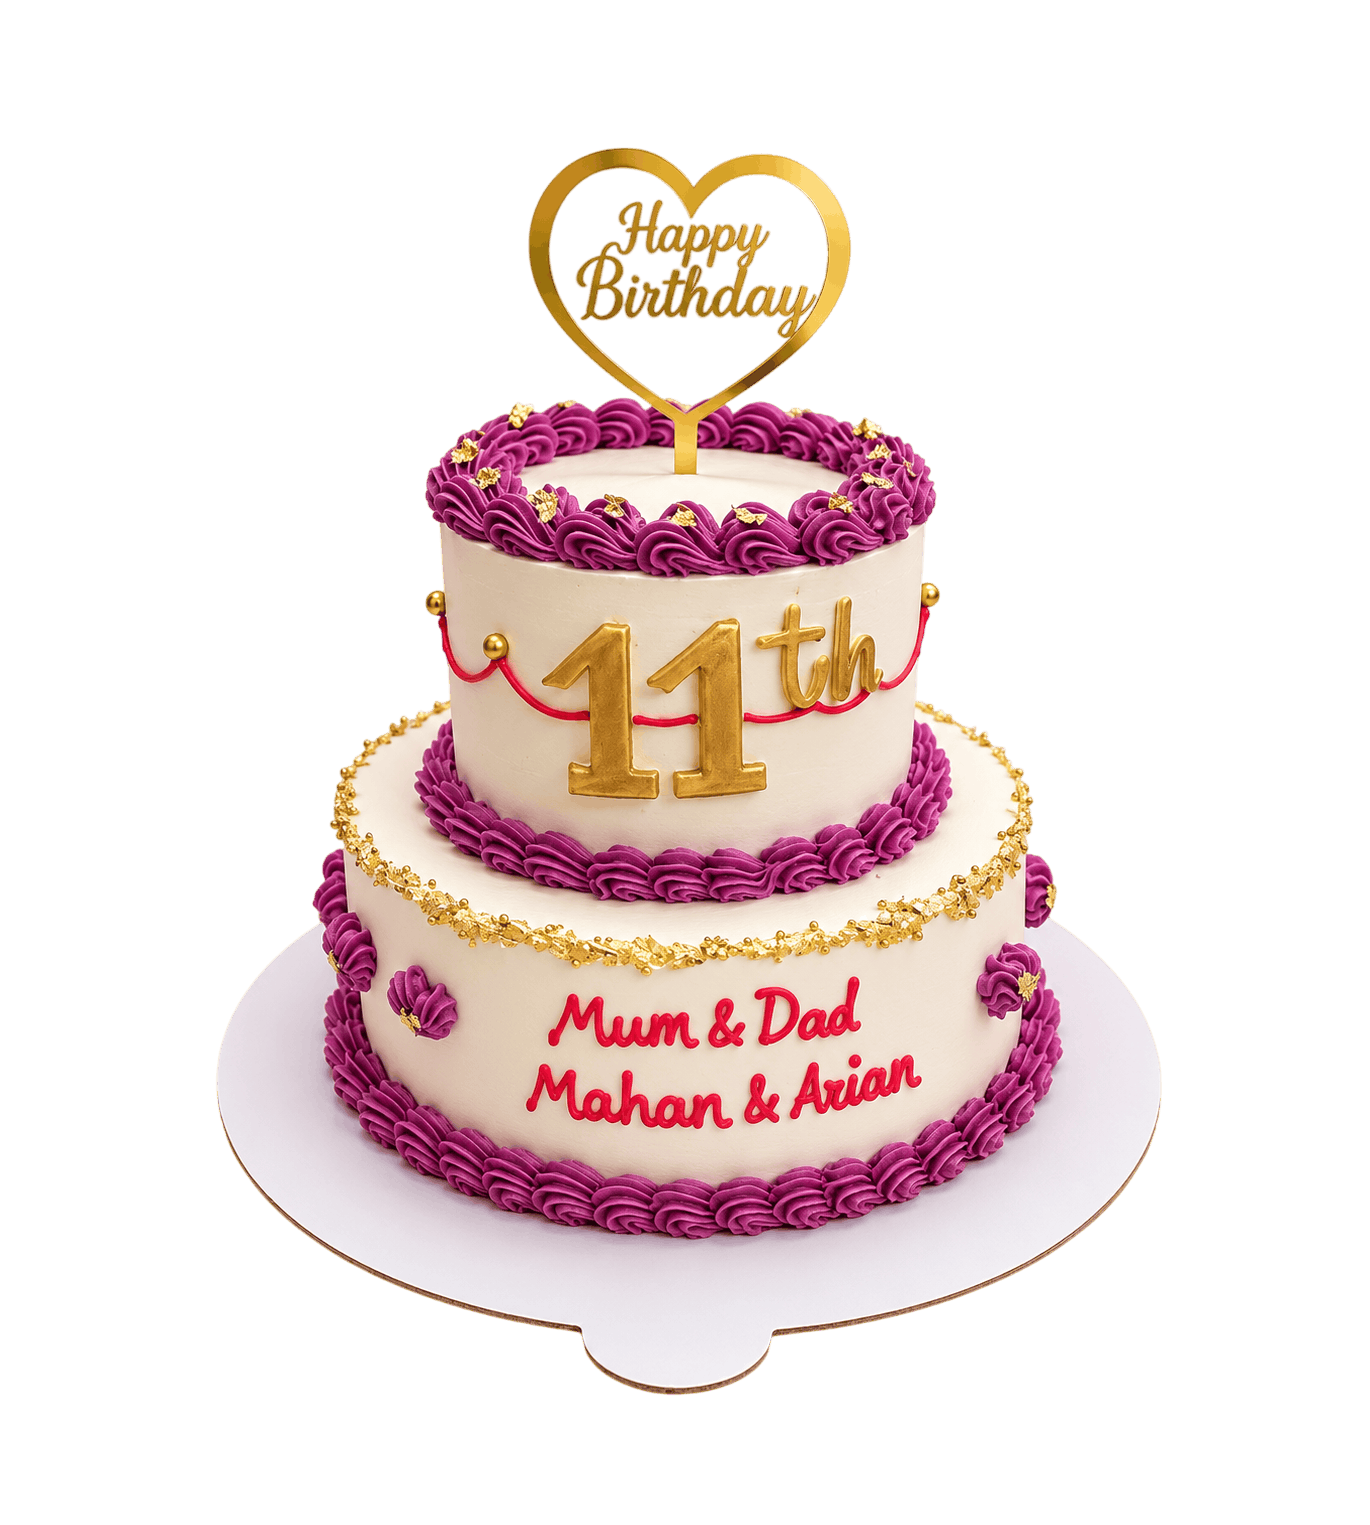
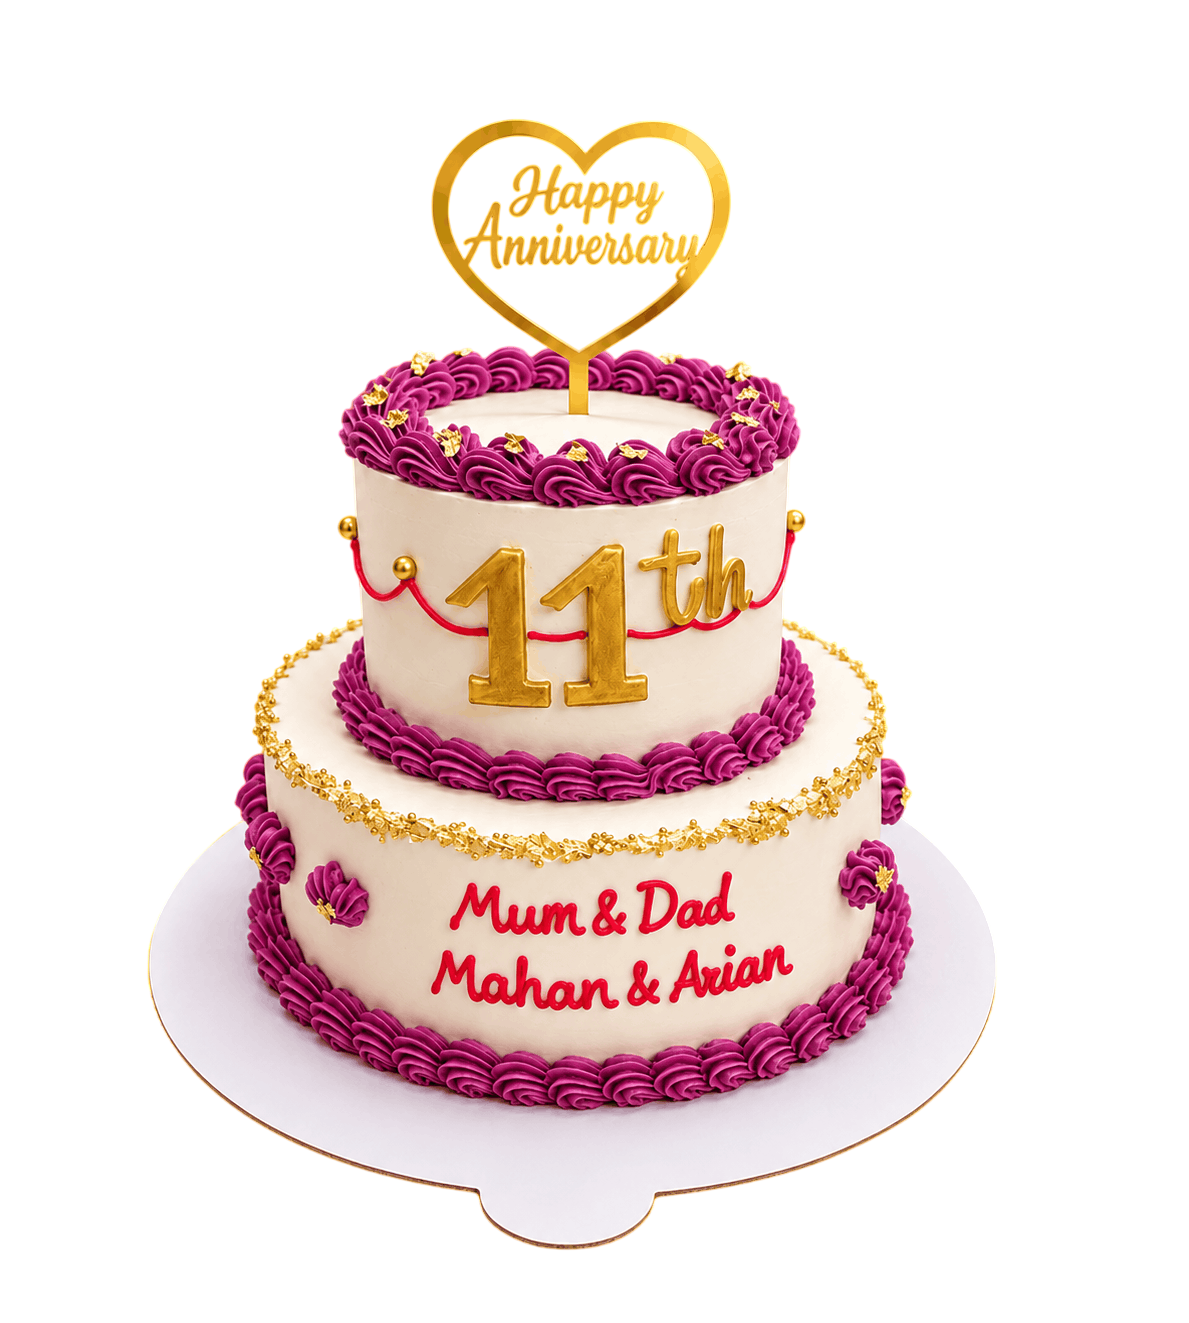
image fix

Changed region(s): [[0.1245, 0.093, 0.8402, 0.9607], [0.8091, 0.6508, 0.8402, 0.6818]]

diff --git a/src/components/HowToOrder.tsx b/src/components/HowToOrder.tsx
@@ -103,7 +103,10 @@ export default function HowToOrder() {
                   Delivered fresh to your doorstep
                 </p>
                 <p className="mt-1 text-xs font-bold text-brand sm:text-sm">
-                  ৳100 Delivery charge
+                  ৳100 Delivery charge{' '}
+                  <span className="text-[11px] font-normal text-ink/70 sm:text-xs">
+                    (varies by location)
+                  </span>
                 </p>
               </div>
             </div>

diff --git a/src/components/OccasionPicker.tsx b/src/components/OccasionPicker.tsx
@@ -67,7 +67,7 @@ const occasions: Occasion[] = [
   {
     name: "Date Night",
     text: "A little something sweet, just for two.",
-    image: "/images/Date_Night_Cake.jpeg",
+    image: "/images/Date_Night_Cake.jpg",
   },
 ];
 
